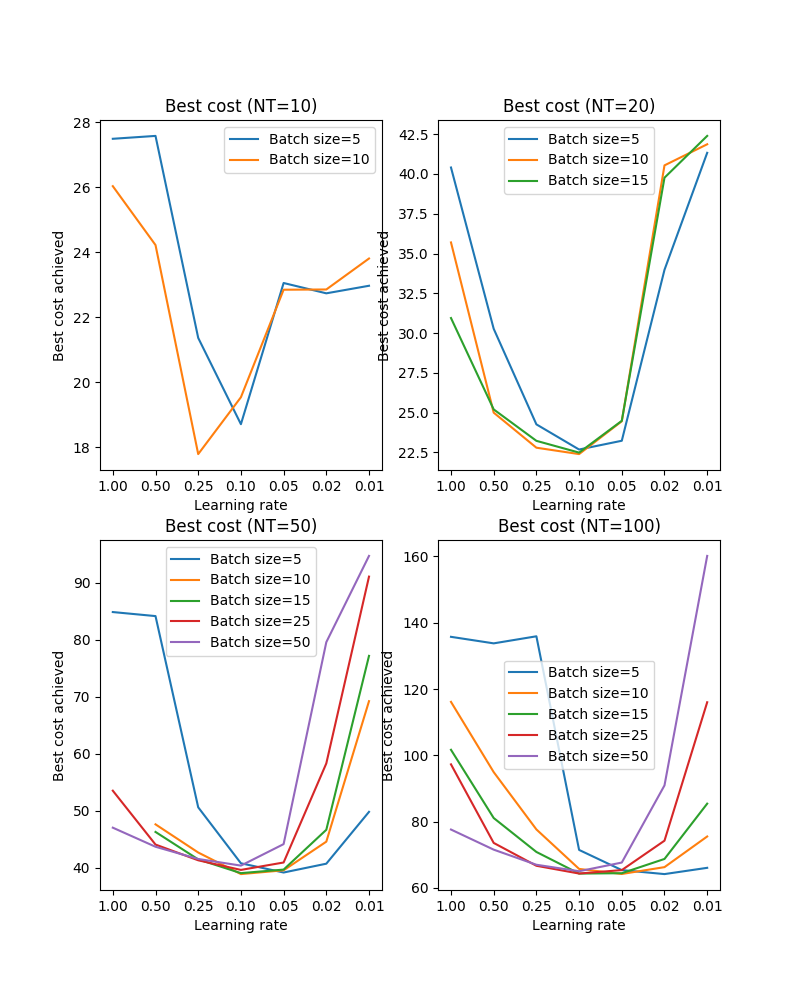
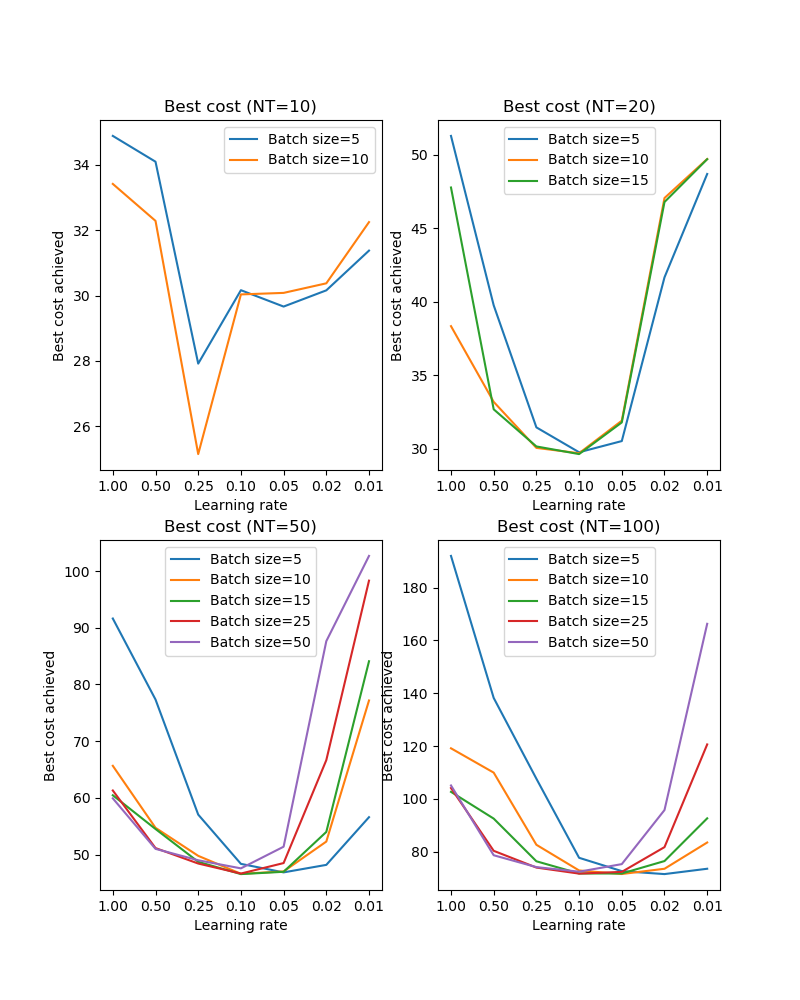
Update to latest test docs before we change everything again

diff --git a/doc/tests/biexp.rst b/doc/tests/biexp.rst
@@ -47,6 +47,8 @@ The following variables were investigated
 
  - The learning rate
  - The batch size (NB this cannot exceed the number of time points)
+ - The size of the sample taken from the posterior when set independently
+   of the batch size
  - The prior distribution of the parameter
  - The initial posterior distribution of the parameters
  - The use of the numerical (sample-based) calculation of the KL
@@ -130,6 +132,50 @@ beneficial for larger numbers of time points (50 or 100). For these
 data sets the optimal batch size was 10-15, which give the
 'flattest' curve, i.e. least affected by variation in the learning rate.
 Where batch size is fixed in subsequent tests we use a value of 10.
+
+Effect of posterior sample size
+-------------------------------
+
+The sample size is used to esimate the integrals in the calculation of
+the cost function, so we would expect that a certain minimum size would
+be required for a good result. Here we vary the sample size independently
+of the batch size which is fixed at 10 - the learning rate is also fixed
+at 0.1 based on the results of the previous tests.
+
+.. image:: /images/conv_ss.png
+    :alt: Convergence of free energy by sample size
+
+The convergence of the free energy shows that convergence occurs in fewer
+epochs for large sampling sizes and that there is little benefit to
+samples sizes > 100. However this is not necessarily significant in terms
+of performance as each epoch takes more time when the sample size is larger.
+Note also that it is possible that a lower sample size may constrain the
+free energy systematically (analogously to the way in which numerical
+integration techniques may systematically under or over estimate depending
+on whether the function is convex). So the higher free energy of smaller
+sample sizes does not necessarily mean that the posterior is actually
+further from the best variational solution.
+
+With this in mind it is useful to look at convergence in parameter values:
+
+.. image:: /images/conv_ss_amp1.png
+    :alt: Convergence of amp1 parameter by sample size
+
+.. image:: /images/conv_ss_amp2.png
+    :alt: Convergence of amp2 parameter by sample size
+
+.. image:: /images/conv_ss_r1.png
+    :alt: Convergence of r1 parameter by sample size
+
+.. image:: /images/conv_ss_r2.png
+    :alt: Convergence of r2 parameter by sample size
+
+Here we can see that firstly, with fewer data points the optimization tends
+to favour a single-exponential solution and does not recover the biexponential
+property for many voxels until we have NT=50.
+
+With regard to sample size, there seems little benefit in sample sizes above
+30.
 
 Effect of prior and initial posterior
 -------------------------------------

diff --git a/doc/theory.rst b/doc/theory.rst
@@ -109,7 +109,8 @@ The first of these terms is the negative of the *reconstruction cost* and is a m
 how well the model prediction fits the data.
 
 The second term is the *latent cost* and measures the closeness of the posterior
-to the prior. 
+to the prior. In fact it is the Kullback-Leibler (KL) divergence between the
+prior and posterior distributions.
 
 This is more tractable than a numerical integration *provided* we can obtain
 a representative sample from the posterior. Maximisation of the free energy
@@ -127,6 +128,18 @@ for part of the log:
 The first term is the *entropy* of the posterior distribution. For many distributions this 
 can be calculated analytically without reference to a sample, so we may be able reduce our
 dependence on the choice of sample to some degree.
+
+If both the prior and posterior are multivariate Gaussian distributions, we can 
+go further and obtain a fully analytic expression for the latent loss using the known
+result for the KL divergence of two MVNs:
+
+.. math::
+
+    E_{q(\theta)} \bigg[ \log \Big( \frac{q(\theta)}{p(\theta)} \Big) \bigg] = \frac{1}{2} \bigg\{ \mathrm{Tr}(\Sigma_p^{-1} \Sigma_q) + (\mu_p - \mu_q)^T\Sigma_p^{-1}(\mu_p - \mu_q) - N + \log\bigg( \frac{\det \Sigma_p}{\det \Sigma_q} \bigg)  \bigg\}
+
+Here :math:`N` is the number of parameters in :math:`\theta`, and 
+:math:`\mu_p, \Sigma_p, \mu_q, \Sigma_q` are the mean and covariance of the 
+prior and posterior.
 
 The problem of sampling from the posterior is of some significance. If the 
 optimization is to work effectively it would be helpful if the gradients
@@ -147,7 +160,8 @@ parameters, the posterior needs to be able to generate samples and its
 own entropy, and we need some means of calculating the data likelihood
 - this normally involves a noise model which can calculate the
 probability of the observed deviations between a model prediction
-and the actual data. The actual forms of the distributions are not 
-constrained further (apart from the limitation of not always being able to use
+and the actual data. Although we can take advantage of analytic results for
+Gaussian distribution, the actual forms of the distributions are not 
+constrained by the method (apart from the limitation of not always being able to use
 the reparameterization trick).
 

diff --git a/doc/implementation.rst b/doc/implementation.rst
@@ -303,6 +303,16 @@ same reason the former method may be preferred when our data consists of repeate
 blocks of measurements of the same timeseries (as is sometimes the case for ASL data).
 Our implementation supports both via the ``sequential_batches`` parameter.
 
+One factor that needs to be accounted for when doing mini-batch training is the
+scaling of different contributions to the total cost. The latent cost depends 
+only on the prior and posterior distributions and not on the size of the training
+data, however the reconstruction cost is a sum of log probabilities over the
+points in the training data. Correct Bayesian inference only occurs when this
+is scaled by :math:`\frac{N_t}{N_b}` where :math:`N_t` is the number of time
+points in the full data and :math:`N_b` is the number in the mini-batch, i.e.
+the batch is being used to estimate the reconstruction cost for the full
+data set.
+
 Learning rate quenching
 ~~~~~~~~~~~~~~~~~~~~~~~
 

diff --git a/doc/tests/asl.rst b/doc/tests/asl.rst
@@ -110,3 +110,10 @@ the batch size to see if there is any actual advantage in this structure.
 
 .. image:: /images/best_cost_lr_asl_rpts.png
     :alt: Best cost achieved in 500 epochs by learning rate
+
+The patterns with convergence and batch size are very similar to those
+obtained from the biexponential model. In particular there is no visible
+effect of aligning the batch size with the ASL repeats. Again we find
+a general optimum learning rate of 0.1 - 0.05 associated with a batch 
+size around 10, although it is noticable that the best cost achieved
+at lower learning rates is a bit better with smaller batch sizes.
